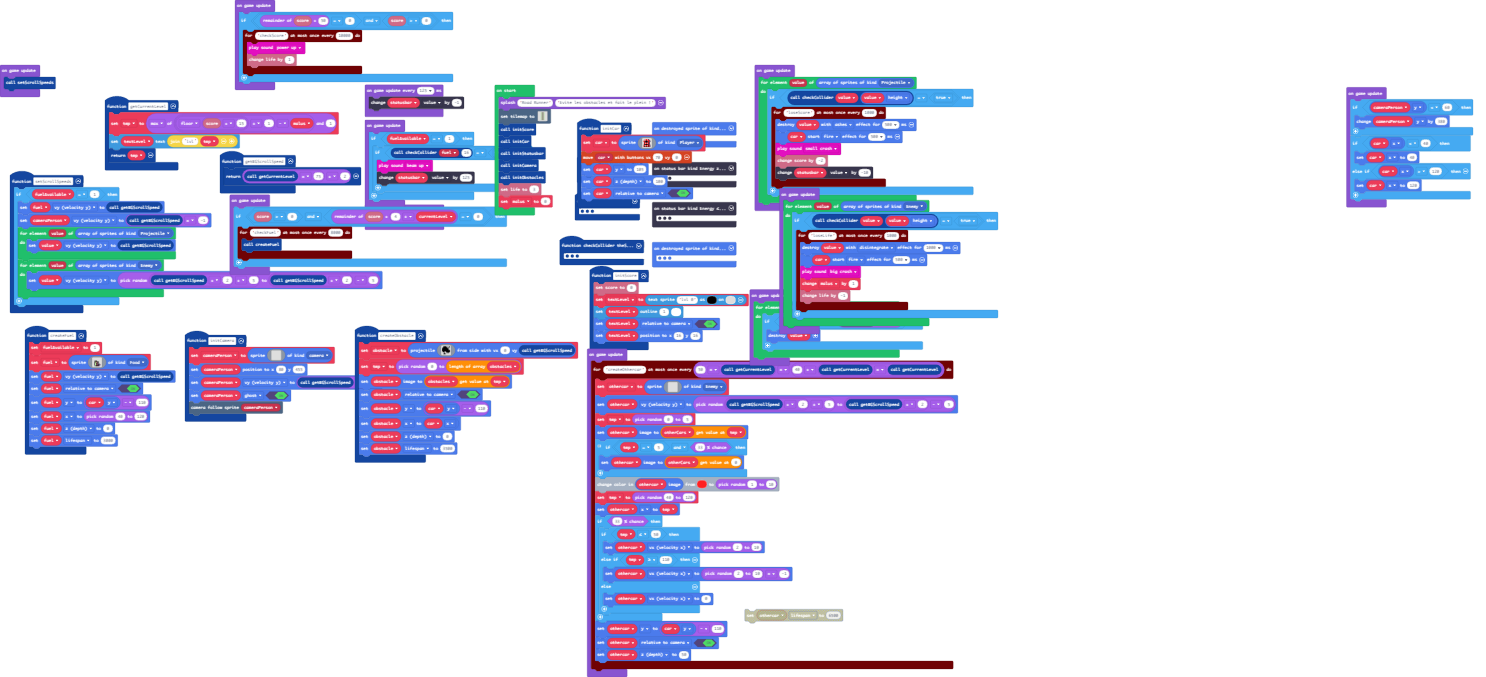
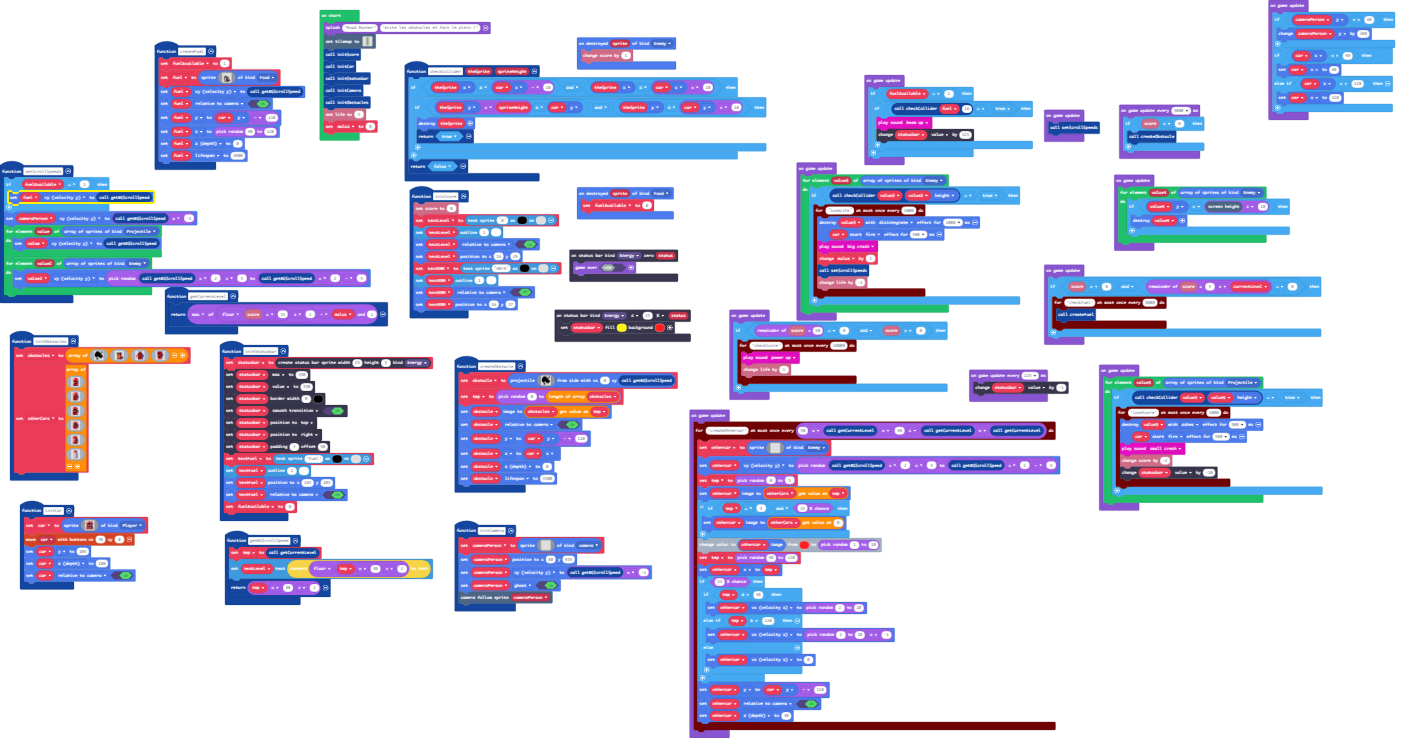
fix change level bug

diff --git a/main.ts b/main.ts
@@ -92,18 +92,20 @@ sprites.onDestroyed(SpriteKind.Food, function (sprite) {
     fuelAvailable = 0
 })
 function getBGScrollSpeed () {
-    return getCurrentLevel() * 75 / 2
+    tmp = getCurrentLevel()
+    textLevel.setText(convertToText(Math.floor(tmp * 80 / 2)))
+    return tmp * 80 / 2
 }
 function setScrollSpeeds () {
     if (fuelAvailable == 1) {
         fuel.vy = getBGScrollSpeed()
-        cameraPerson.vy = getBGScrollSpeed() * -1
-        for (let value of sprites.allOfKind(SpriteKind.Projectile)) {
-            value.vy = getBGScrollSpeed()
-        }
-        for (let value of sprites.allOfKind(SpriteKind.Enemy)) {
-            value.vy = randint(getBGScrollSpeed() / 2 + 5, getBGScrollSpeed() / 2 - 5)
-        }
+    }
+    cameraPerson.vy = getBGScrollSpeed() * -1
+    for (let value of sprites.allOfKind(SpriteKind.Projectile)) {
+        value.vy = getBGScrollSpeed()
+    }
+    for (let value2 of sprites.allOfKind(SpriteKind.Enemy)) {
+        value2.vy = randint(getBGScrollSpeed() / 2 + 5, getBGScrollSpeed() / 2 - 5)
     }
 }
 function createFuel () {
@@ -135,10 +137,14 @@ function createFuel () {
 }
 function initScore () {
     info.setScore(0)
-    textLevel = textsprite.create("lvl 0", 0, 15)
+    textLevel = textsprite.create("0", 0, 15)
     textLevel.setOutline(1, 1)
     textLevel.setFlag(SpriteFlag.RelativeToCamera, true)
-    textLevel.setPosition(16, 16)
+    textLevel.setPosition(16, 29)
+    textKMH = textsprite.create("KM/H", 0, 15)
+    textKMH.setOutline(1, 1)
+    textKMH.setFlag(SpriteFlag.RelativeToCamera, true)
+    textKMH.setPosition(16, 17)
 }
 function initStatusbar () {
     statusbar = statusbars.create(25, 5, StatusBarKind.Energy)
@@ -156,9 +162,7 @@ function initStatusbar () {
     fuelAvailable = 0
 }
 function getCurrentLevel () {
-    tmp = Math.max(Math.floor(info.score() / 15) + 1 - malus, 1)
-    textLevel.setText("lvl" + tmp)
-    return tmp
+    return Math.max(Math.floor(info.score() / 15) + 1 - malus, 1)
 }
 function initObstacles () {
     obstacles = [img`
@@ -370,8 +374,9 @@ let othercar: Sprite = null
 let otherCars: Image[] = []
 let textFuel: TextSprite = null
 let statusbar: StatusBarSprite = null
-let textLevel: TextSprite = null
+let textKMH: TextSprite = null
 let fuel: Sprite = null
+let textLevel: TextSprite = null
 let fuelAvailable = 0
 let cameraPerson: Sprite = null
 let car: Sprite = null
@@ -389,27 +394,13 @@ initObstacles()
 info.setLife(3)
 malus = 0
 game.onUpdate(function () {
-    if (info.score() % 50 == 0 && info.score() > 0) {
-        timer.throttle("checkScore", 10000, function () {
-            music.powerUp.play()
-            info.changeLifeBy(1)
-        })
+    if (cameraPerson.y < 60) {
+        cameraPerson.y += 380
     }
-})
-game.onUpdate(function () {
-    setScrollSpeeds()
-})
-game.onUpdate(function () {
-    for (let value of sprites.allOfKind(SpriteKind.Projectile)) {
-        if (checkCollider(value, value.height) == true) {
-            timer.throttle("loseScore", 1000, function () {
-                value.destroy(effects.ashes, 500)
-                car.startEffect(effects.fire, 500)
-                music.smallCrash.play()
-                info.changeScoreBy(-2)
-                statusbar.value += -10
-            })
-        }
+    if (car.x < 40) {
+        car.x = 40
+    } else if (car.x > 120) {
+        car.x = 120
     }
 })
 game.onUpdate(function () {
@@ -421,13 +412,27 @@ game.onUpdate(function () {
     }
 })
 game.onUpdate(function () {
-    if (cameraPerson.y < 60) {
-        cameraPerson.y += 380
+    setScrollSpeeds()
+})
+game.onUpdate(function () {
+    for (let value3 of sprites.allOfKind(SpriteKind.Enemy)) {
+        if (checkCollider(value3, value3.height) == true) {
+            timer.throttle("loseLife", 1000, function () {
+                value3.destroy(effects.disintegrate, 1000)
+                car.startEffect(effects.fire, 500)
+                music.bigCrash.play()
+                malus += 1
+                setScrollSpeeds()
+                info.changeLifeBy(-1)
+            })
+        }
     }
-    if (car.x < 40) {
-        car.x = 40
-    } else if (car.x > 120) {
-        car.x = 120
+})
+game.onUpdate(function () {
+    for (let value4 of sprites.allOfKind(SpriteKind.Enemy)) {
+        if (value4.y > scene.screenHeight() + 10) {
+            value4.destroy()
+        }
     }
 })
 game.onUpdate(function () {
@@ -439,22 +444,23 @@ game.onUpdate(function () {
     }
 })
 game.onUpdate(function () {
-    for (let value of sprites.allOfKind(SpriteKind.Enemy)) {
-        if (checkCollider(value, value.height) == true) {
-            timer.throttle("loseLife", 1000, function () {
-                value.destroy(effects.disintegrate, 1000)
-                car.startEffect(effects.fire, 500)
-                music.bigCrash.play()
-                malus += 1
-                info.changeLifeBy(-1)
-            })
-        }
+    if (info.score() % 50 == 0 && info.score() > 0) {
+        timer.throttle("checkScore", 10000, function () {
+            music.powerUp.play()
+            info.changeLifeBy(1)
+        })
     }
 })
 game.onUpdate(function () {
-    for (let value of sprites.allOfKind(SpriteKind.Enemy)) {
-        if (value.y > scene.screenHeight() + 10) {
-            value.destroy()
+    for (let value5 of sprites.allOfKind(SpriteKind.Projectile)) {
+        if (checkCollider(value5, value5.height) == true) {
+            timer.throttle("loseScore", 1000, function () {
+                value5.destroy(effects.ashes, 500)
+                car.startEffect(effects.fire, 500)
+                music.smallCrash.play()
+                info.changeScoreBy(-2)
+                statusbar.value += -10
+            })
         }
     }
 })
